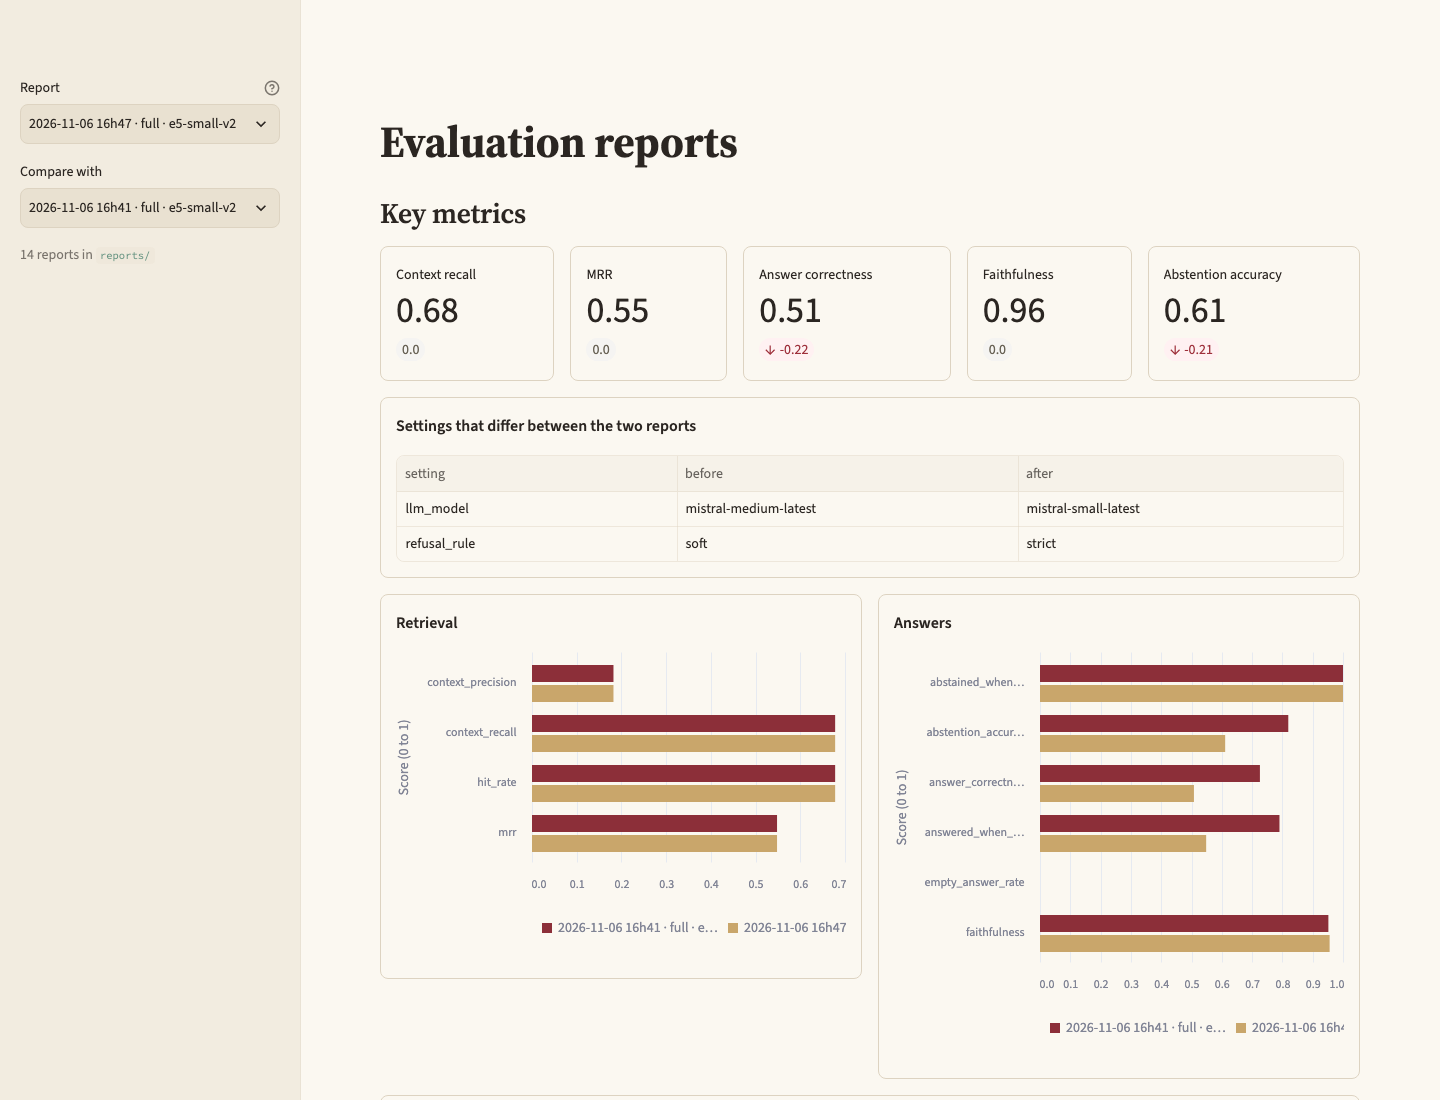
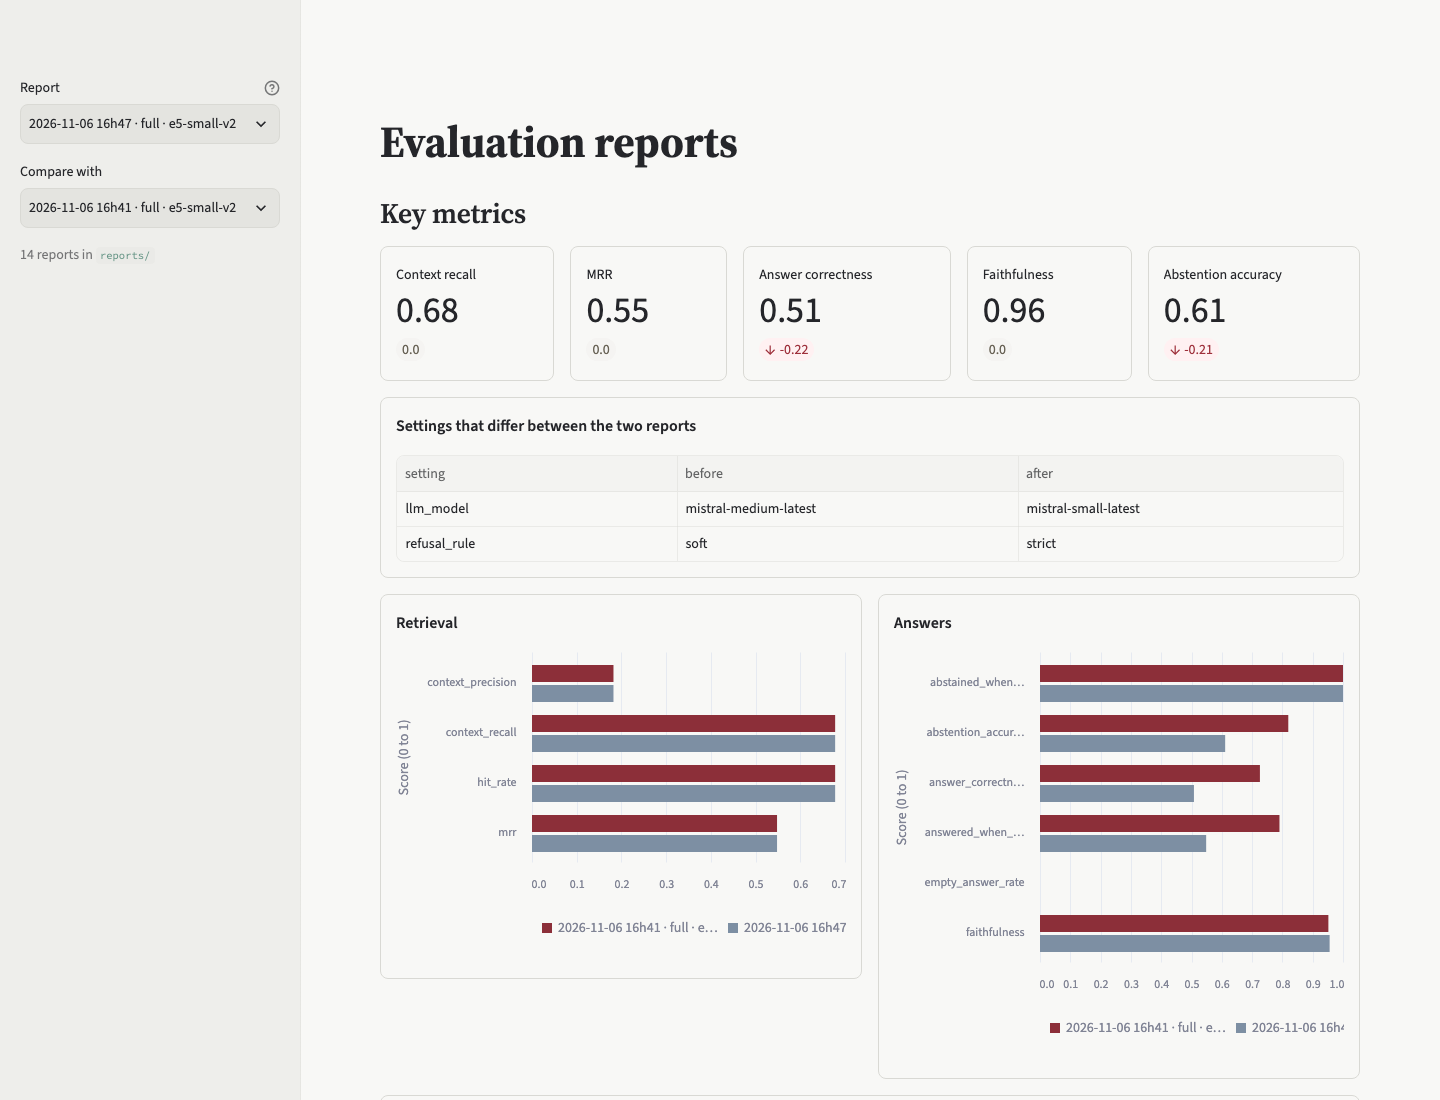
Neutral grey theme instead of sandy

Changed region(s): [[0.375, 0.6182, 0.5938, 0.7727], [0.7188, 0.6182, 0.9375, 0.7727], [0.7188, 0.8345, 0.9375, 0.8655]]

diff --git a/app/views/chat.css b/app/views/chat.css
@@ -107,7 +107,7 @@ div:has(> .st-key-chat-pane) {
   border-radius: 0.75rem;
   background: color-mix(in srgb, var(--paper-2) 55%, var(--paper));
   padding: 0.9rem 1.1rem;
-  box-shadow: 0 1px 2px rgb(60 40 20 / 0.06);
+  box-shadow: 0 1px 2px rgb(30 30 40 / 0.06);
 }
 
 [data-testid="stChatMessage"]:has([data-testid="stChatMessageAvatarUser"]) {
@@ -128,7 +128,7 @@ div:has(> .st-key-chat-pane) {
 
 [data-testid="stChatInput"] {
   border-radius: 0.75rem;
-  box-shadow: 0 2px 8px rgb(60 40 20 / 0.08);
+  box-shadow: 0 2px 8px rgb(30 30 40 / 0.08);
 }
 
 [data-testid="stSidebar"] {
@@ -137,7 +137,7 @@ div:has(> .st-key-chat-pane) {
 
 .st-key-reader-panel {
   background: var(--paper);
-  box-shadow: -6px 0 18px rgb(60 40 20 / 0.1);
+  box-shadow: -6px 0 18px rgb(30 30 40 / 0.1);
 }
 
 .st-key-reader-header [data-testid="stMarkdownContainer"] p {

diff --git a/app/views/home.css b/app/views/home.css
@@ -7,7 +7,7 @@
   min-height: 15rem;
   background: color-mix(in srgb, var(--paper-2) 55%, var(--paper));
   border-left: 4px solid var(--accent);
-  box-shadow: 0 1px 3px rgb(60 40 20 / 0.08);
+  box-shadow: 0 1px 3px rgb(30 30 40 / 0.08);
   transition: box-shadow 0.15s, transform 0.15s;
 }
 
@@ -16,7 +16,7 @@
 }
 
 [class*="st-key-book-"]:hover {
-  box-shadow: 0 6px 18px rgb(60 40 20 / 0.14);
+  box-shadow: 0 6px 18px rgb(30 30 40 / 0.14);
   transform: translateY(-2px);
 }
 

diff --git a/app/views/base.css b/app/views/base.css
@@ -1,8 +1,8 @@
 /* The palette of .streamlit/config.toml for the page styles (Streamlit sets its own variables only inside components). */
 :root {
-  --paper: #fbf8f1;
-  --paper-2: #f2ece0;
-  --ink: #2b2622;
+  --paper: #f8f8f6;
+  --paper-2: #eeeeeb;
+  --ink: #25262a;
   --accent: #8c2f39;
-  --rule: #ddd3c1;
+  --rule: #d9d9d4;
 }

diff --git a/docs/changes.md b/docs/changes.md
@@ -91,7 +91,7 @@ and the question uses other words than the book ("feed on" against "feeding on t
 | Rate limits and errors | a traceback | a message in the chat; the evaluation waits out a rate limit |
 | Asking about a text | one typed question | select text in a question, an answer, a passage or the book, then click "Ask about this" |
 | Long chats | the whole history is drawn | the latest 10 exchanges; "Show earlier questions" adds 10 (Streamlit draws every element it is given: 8,300 elements after 60 questions without the cap, about 1,600 with it) |
-| Design | Streamlit defaults | a library look: paper background, ink text, one oxblood accent, serif headings and book text (`.streamlit/config.toml`, `views/chat.css`) |
+| Design | Streamlit defaults | a library look: pale grey paper, ink text, one oxblood accent, serif headings and book text (`.streamlit/config.toml`, `app/views/chat.css`) |
 | Start screen | a fixed book per group | the first page lists the eight books; a click opens the chat of that book |
 | Page layout | one scrolling page | the chat page never scrolls as a whole: the book's title stays at the top, the chat and the book scroll inside their own areas |
 | Settings page | none | the agent switch and the language model in use |

diff --git a/docs/agent-log.md b/docs/agent-log.md
@@ -264,3 +264,7 @@ coverage of the evaluation command, running the evaluation and the live tests on
 - Now: `app/streamlit_app.py` (entry), `app/views/` (pages and CSS), `app/reports.py`; run with `make app` or `uv run streamlit run app/streamlit_app.py`.
   `.streamlit/config.toml` stays at the root (Streamlit reads it from the folder it is started in). `app_pages` renamed `views` to avoid
   Streamlit's own `pages/` folder convention. The README explains this. All tests (428 + 30 browser) pass.
+
+### Batch 5, task 3: theme less yellow
+- Palette now pale grey (`#f8f8f6` page, `#eeeeeb` sidebar and cards, `#d9d9d4` lines, ink `#25262a`); shadows neutral; the chart colours no
+  longer include a sand tone. Same oxblood accent. Changed in `.streamlit/config.toml` and `app/views/base.css` (keep the two in step).
